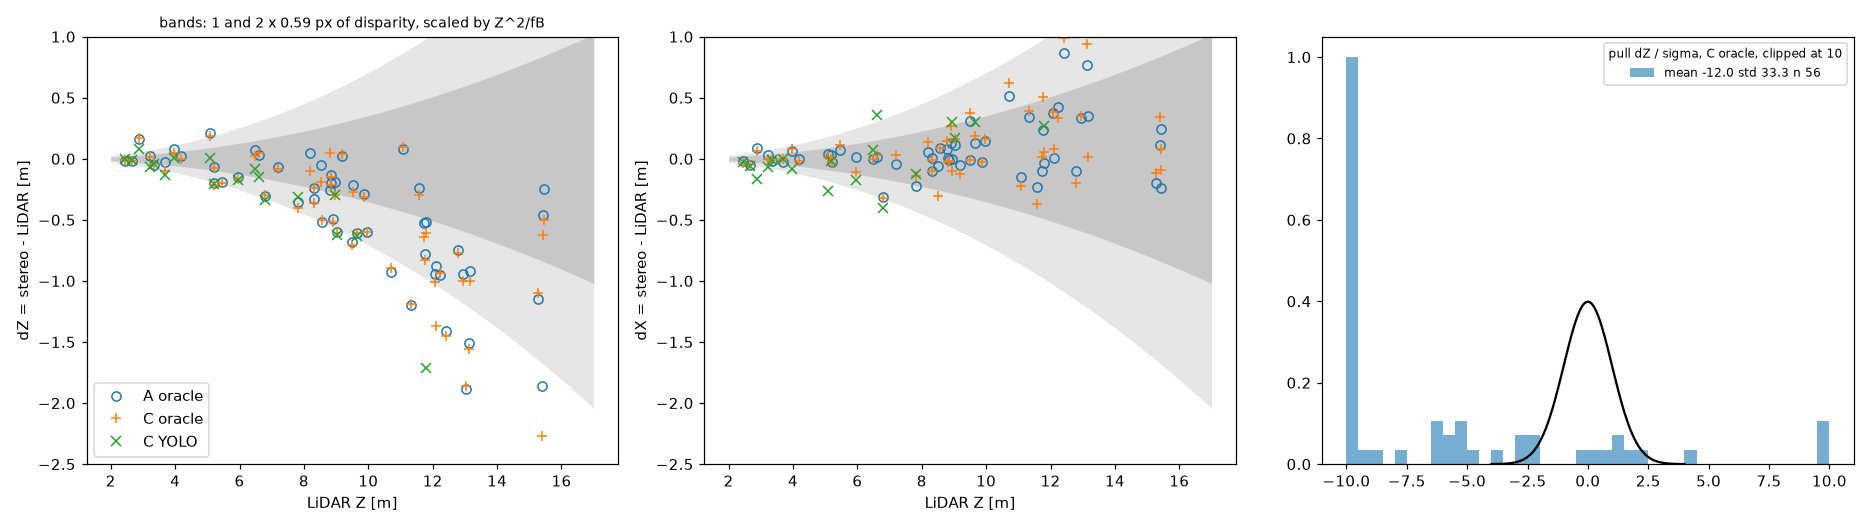
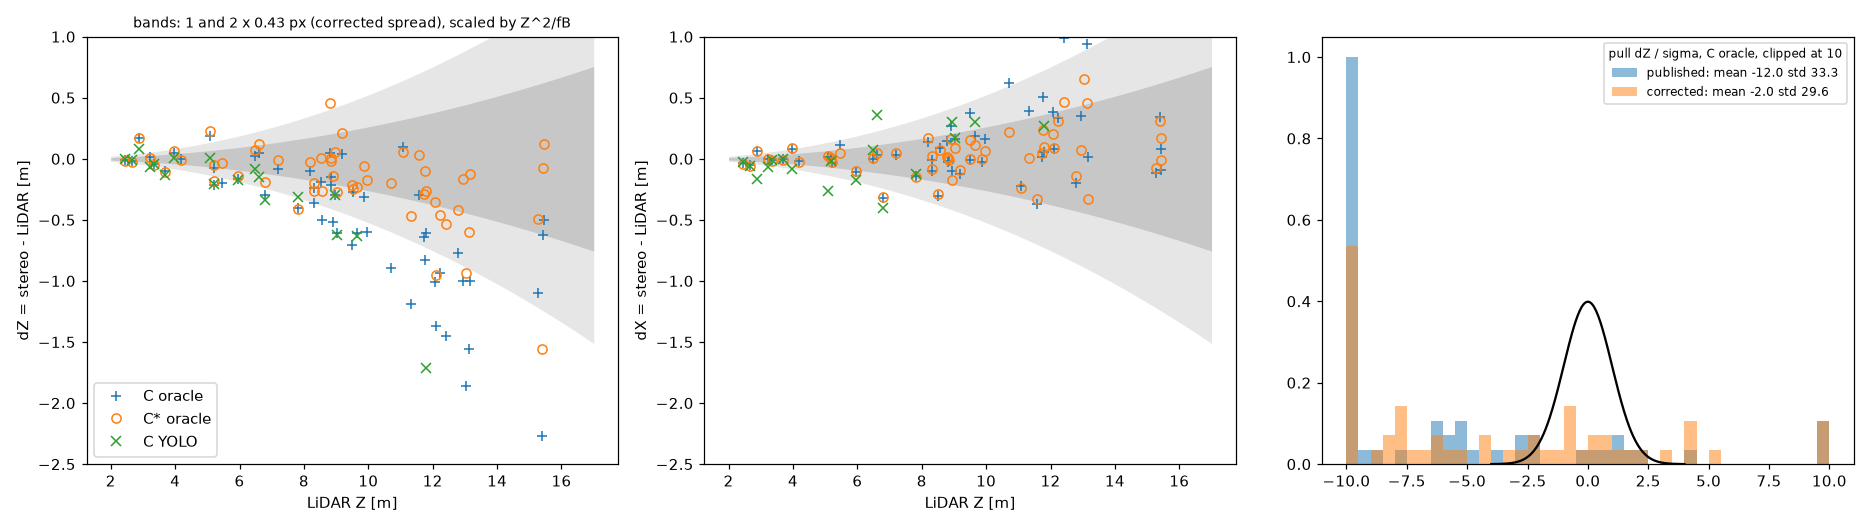
fit column-dependent disparity bias on 67 held-out frames

diff --git a/3_compare_lidar.py b/3_compare_lidar.py
@@ -6,6 +6,7 @@ from pathlib import Path
 OUT = Path('results')
 FR = Path('frames')
 VIEW = 48  # frame for the bird's eye view
+OCCLUDED = (168, 3)  # frame, trunk: the LiDAR picks up an object in front of it
 bins = [0, 5, 10, 15, 30]
 
 with open(OUT / 'trunks.csv') as f:
@@ -59,10 +60,35 @@ for fd in sorted(FR.glob('[0-9]*')):
             gt[(int(fd.name), k)] = (p, cov, g)
 e_d = np.concatenate(e_d)
 
+held = sorted((FR / 'heldout').glob('*'))
+H = []
+for fd in held:
+    _, _, _, _, e = project(fd)
+    H.append(e)
+H = np.concatenate(H)
+H = H[(H[:, 1] < fB / 3) & (np.abs(H[:, 2]) < 3)]
+A_h = np.column_stack([np.ones(len(H)), H[:, 0], H[:, 1]])
+w = np.ones(len(H))
+for _ in range(10):
+    k_d = np.linalg.lstsq(A_h * w[:, None], H[:, 2] * w, rcond=None)[0]
+    w = 1 / np.maximum(np.abs(H[:, 2] - A_h @ k_d), 0.3)
+
 lines = ['calibration check, every Livox point against SGBM, d_stereo - fB/Z_lidar [px], median and robust std']
 for lo in range(80, 880, 160):
     s = (e_d[:, 1] < fB / 5) & (e_d[:, 0] + c_x >= lo) & (e_d[:, 0] + c_x < lo + 160)
     lines.append('  Z > 5 m, columns %3d-%3d  %+.3f  %.3f' % ((lo, lo + 160) + robust(e_d[s, 2])))
+lines.append('held-out fit, %d frames, %d points: d_stereo - d_lidar = %+.3f %+.5f (u - c_x) %+.4f d_lidar'
+             % (len(held), len(H), *k_d))
+
+# corrected disparity (d - a - b (u - c_x)) / (1 + c), applied to the median disparity of each trunk
+a, b, c = k_d
+u_c = f_x * T['X_A'] / T['Z_A'] + c_x
+Z_s = fB * (1 + c) / (fB / T['Z_s'] - a - b * (u_c - c_x))
+shift = Z_s - T['Z_s']
+for e in ['A', 'B', 'C']:
+    Z_new = T['Z_' + e] + shift
+    T['X_' + e + '*'] = T['X_' + e] * Z_new / T['Z_' + e]
+    T['Z_' + e + '*'] = Z_new
 
 ok_gt = {}
 for key, (p, cov, g) in gt.items():
@@ -78,17 +104,19 @@ for i, key in enumerate(keys):
         p, cov, _ = ok_gt[key]
         X_L[i], Z_L[i], r_L[i] = p
         s_GT[i] = np.sqrt(cov[1, 1])
-est = ['A', 'B', 'C']
+est = ['A', 'B', 'C', 'A*', 'B*', 'C*']
 dZ = {e: T['Z_' + e] - Z_L for e in est}
 dX = {e: T['X_' + e] - X_L for e in est}
 s_pred = np.sqrt(T['var_Z'] * T['N'] / T['N_eff'] + (T['Z_s'] / (2 * f_x)) ** 2)
 ora = np.isfinite(Z_L) & (T['src'] == 0)
 prd = np.isfinite(Z_L) & (T['src'] == 1)
-pull = (dZ['C'] / np.hypot(s_pred, s_GT))[ora]
+pull = {e: (dZ[e] / np.hypot(s_pred, s_GT))[ora] for e in ('C', 'C*')}
+clean = np.array([key != OCCLUDED for key in keys])
 
 lines.append('LiDAR truth: %d oracle trunks with >= 8 points, %d pass radius and fit checks' % (len(gt), len(ok_gt)))
 lines.append('YOLO covers %d of %d oracle trunks with truth' % (len({keys[i] for i in np.nonzero(prd)[0]}), ora.sum()))
-lines.append('mask   est  Z bin     n  med dZ  RMSE dZ  robust  med dX  RMSE dX  B radius off by > r/2')
+lines.append('* = held-out disparity correction; RMSE* without frame %d trunk %d (object in front)' % OCCLUDED)
+lines.append('mask   est  Z bin     n  med dZ  RMSE dZ  RMSE*  robust  med dX  RMSE dX  B radius off by > r/2')
 for src, name in ((ora, 'oracle'), (prd, 'yolo')):
     for e in est:
         for lo, hi in zip(bins, bins[1:]):
@@ -98,29 +126,33 @@ for src, name in ((ora, 'oracle'), (prd, 'yolo')):
             b_off = ''
             if e == 'B':
                 b_off = '%d of %d' % (np.sum(np.abs(T['r_B'][s] - r_L[s]) > r_L[s] / 2), s.sum())
-            lines.append('%-6s %s  %2d-%2d  %4d  %+6.2f  %6.2f  %6.2f  %+6.2f  %6.2f   %s' % (
-                name, e, lo, hi, s.sum(), np.median(dZ[e][s]), rms(dZ[e][s]), robust(dZ[e][s])[1],
-                np.median(dX[e][s]), rms(dX[e][s]), b_off))
-s_d_eff = robust(dZ['C'][ora] * fB / Z_L[ora] ** 2)[1]
-lines.append('C oracle: robust spread of dZ fB/Z^2 %.2f px, pull mean %+.1f std %.1f median %+.1f n %d' % (
-    s_d_eff, pull.mean(), pull.std(), np.median(pull), len(pull)))
+            lines.append('%-6s %-2s  %2d-%2d  %4d  %+6.2f  %6.2f  %6.2f  %6.2f  %+6.2f  %6.2f   %s' % (
+                name, e, lo, hi, s.sum(), np.median(dZ[e][s]), rms(dZ[e][s]), rms(dZ[e][s & clean]),
+                robust(dZ[e][s])[1], np.median(dX[e][s]), rms(dX[e][s]), b_off))
+s_d_eff = {}
+for e in ['C', 'C*']:
+    s_d_eff[e] = robust(dZ[e][ora] * fB / Z_L[ora] ** 2)[1]
+    p_e = pull[e]
+    lines.append(f'{e:<3} oracle: robust spread of dZ fB/Z^2 {s_d_eff[e]:.2f} px, pull mean {p_e.mean():+.1f} '
+                 f'std {p_e.std():.1f} median {np.median(p_e):+.1f} n {len(p_e)}')
 print('\n'.join(lines))
 open(OUT / 'table.txt', 'w').write('\n'.join(lines) + '\n')
 
 z = np.linspace(2, 17, 100)
-band = z ** 2 * s_d_eff / fB
+band = z ** 2 * s_d_eff['C*'] / fB
 fig, ax = plt.subplots(1, 3, figsize=(17, 4.8), layout='tight')
 for a, err, label in ((ax[0], dZ, 'dZ = stereo - LiDAR [m]'), (ax[1], dX, 'dX = stereo - LiDAR [m]')):
     a.fill_between(z, -2 * band, 2 * band, color='0.9', lw=0)
     a.fill_between(z, -band, band, color='0.78', lw=0)
-    a.plot(Z_L[ora], err['A'][ora], 'o', mfc='none', label='A oracle')
     a.plot(Z_L[ora], err['C'][ora], '+', label='C oracle')
+    a.plot(Z_L[ora], err['C*'][ora], 'o', mfc='none', label='C* oracle')
     a.plot(Z_L[prd], err['C'][prd], 'x', label='C YOLO')
     a.set(xlabel='LiDAR Z [m]', ylabel=label, ylim=(-2.5, 1))
 ax[0].legend(loc='lower left')
-ax[0].set_title('bands: 1 and 2 x %.2f px of disparity, scaled by Z^2/fB' % s_d_eff, fontsize=9)
-ax[2].hist(np.clip(pull, -10, 10), bins=np.arange(-10, 10.1, 0.5), density=True, alpha=0.6,
-           label='mean %+.1f std %.1f n %d' % (pull.mean(), pull.std(), len(pull)))
+ax[0].set_title('bands: 1 and 2 x %.2f px (corrected spread), scaled by Z^2/fB' % s_d_eff['C*'], fontsize=9)
+for e, label in (('C', 'published'), ('C*', 'corrected')):
+    ax[2].hist(np.clip(pull[e], -10, 10), bins=np.arange(-10, 10.1, 0.5), density=True, alpha=0.5,
+               label='%s: mean %+.1f std %.1f' % (label, pull[e].mean(), pull[e].std()))
 x = np.linspace(-4, 4, 200)
 ax[2].plot(x, np.exp(-x ** 2 / 2) / np.sqrt(2 * np.pi), 'k')
 ax[2].legend(fontsize=8, title='pull dZ / sigma, C oracle, clipped at 10', title_fontsize=8)

diff --git a/1_segment_and_disparity.py b/1_segment_and_disparity.py
@@ -10,6 +10,12 @@ BAG = Path('data/bgarden/1018_00_VLIO.bag')
 CAL = 'data/bgarden/calib/'
 OUT = Path('frames')
 FRAMES = [24, 48, 72, 120, 144, 168, 192, 208, 228, 248, 300, 324, 348, 372, 396, 420, 444, 912, 940]
+# every 4th frame on the three trunk paths, at least 8 frames from any evaluation frame
+HELD = []
+for i in range(24, 961, 4):
+    on_path = i < 268 or 288 <= i < 460 or i > 884
+    if on_path and min(abs(i - j) for j in FRAMES) >= 8:
+        HELD.append(i)
 n_d, w_b, tol_lr = 80, 5, 1.0  # SGBM disparities, block size, left-right tolerance [px]
 wh = (960, 600)
 
@@ -55,7 +61,7 @@ with AnyReader([BAG]) as rd:
             odo.append((stamp(m), m.twist.twist.linear.x, m.twist.twist.angular.z))
         else:
             t_img.append(stamp(m))
-    want = [t_img[i] for i in FRAMES]
+    want = [t_img[i] for i in FRAMES + HELD]
     topics = ['/dalsa_color/left/image_raw', '/dalsa_color/right/image_raw', '/livox/lidar']
     for c, t, raw in rd.messages(connections=[con[name] for name in topics]):
         if c.topic == '/livox/lidar' and np.abs(np.array(want) - 1e-9 * t).min() > 1:
@@ -90,8 +96,11 @@ sgbm = cv2.StereoSGBM_create(minDisparity=0, numDisparities=n_d, blockSize=w_b, 
                              mode=cv2.STEREO_SGBM_MODE_HH)
 yolo = YOLO('data/yolo/trunk.pt')
 v, u = np.mgrid[0:wh[1], 0:wh[0]]
-for i, st in zip(FRAMES, want):
-    d = OUT / f'{i:04d}'
+for i, st in zip(FRAMES + HELD, want):
+    if i in HELD:
+        d = OUT / 'heldout' / f'{i:04d}'
+    else:
+        d = OUT / f'{i:04d}'
     d.mkdir(parents=True, exist_ok=True)
     L = cv2.remap(img[('left', st)], *map_l, cv2.INTER_LINEAR)
     R = cv2.remap(img[('right', st)], *map_r, cv2.INTER_LINEAR)
@@ -116,6 +125,8 @@ for i, st in zip(FRAMES, want):
     np.save(d / 'disp.npy', disp)
     np.save(d / 'pts_cam.npy', pts_cam.astype(np.float32))
     np.savez(d / 'calib.npz', f_x=f_x, c_x=c_x, c_y=c_y, B=B, w_b=w_b, R1=R1, T_cl=T_cl, stamp=st, v_x=v_x, w_z=w_z)
+    if i in HELD:
+        continue
 
     if not (d / 'mask_oracle.png').exists():
         cv2.imwrite(str(d / 'mask_oracle.png'), draw_polygons(L[:, :, ::-1]))
